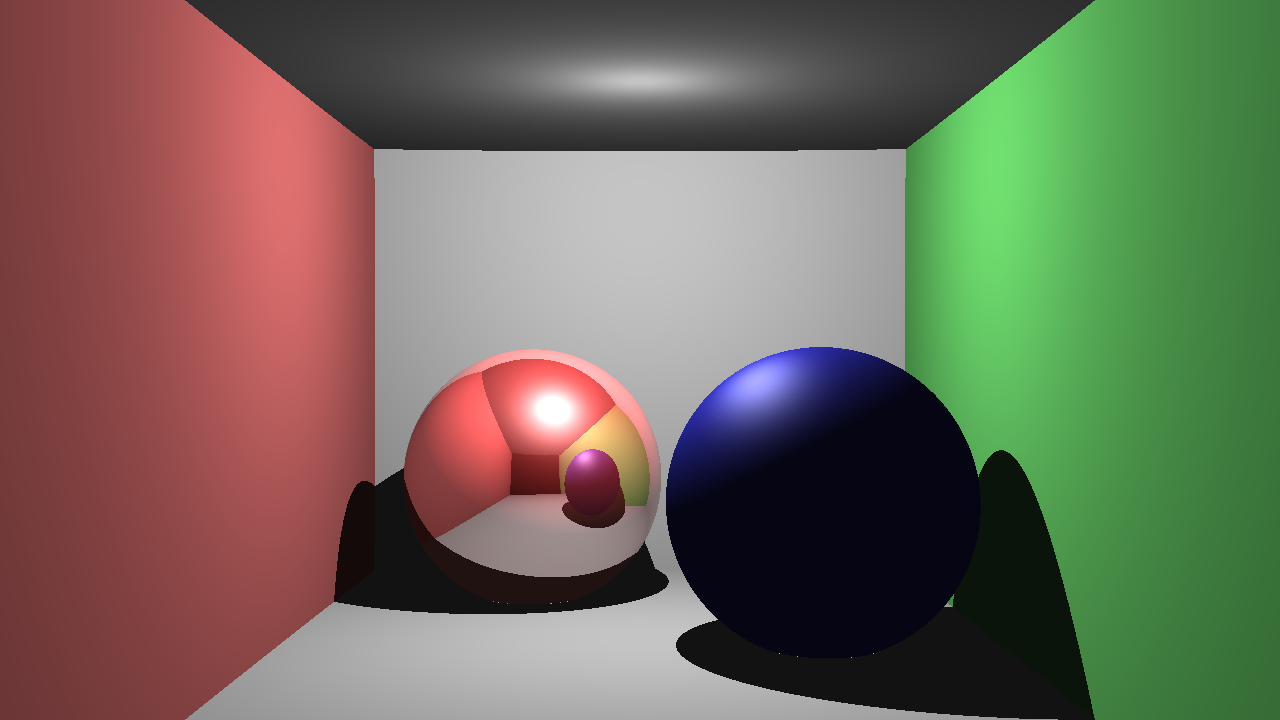
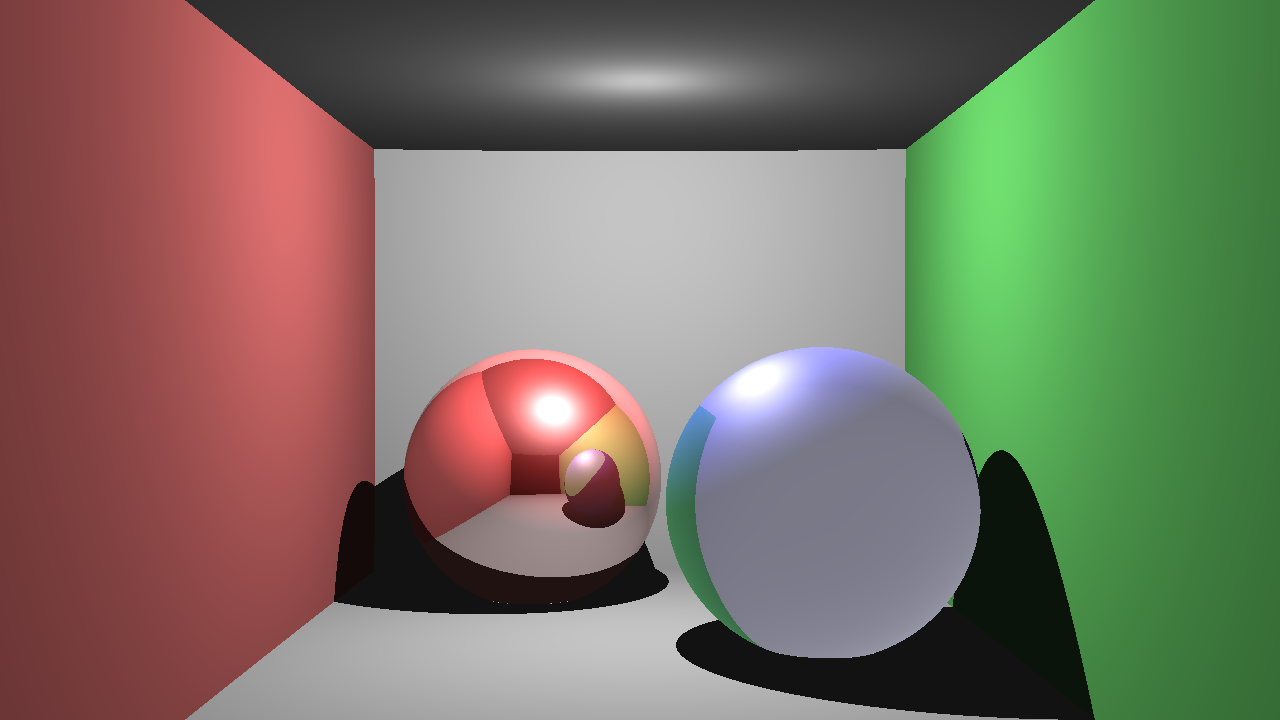
Getting closer to refractions

Changed region(s): [[0.5, 0.4583, 0.7812, 0.9167], [0.4375, 0.6111, 0.4688, 0.7028]]

diff --git a/src/Materials.cpp b/src/Materials.cpp
@@ -34,15 +34,24 @@ Color MtlBlinn::Shade(Ray const &ray, HitInfo const &hInfo, LightList const &lig
     }
 
     // Calulate reflected color
-    if (bounceCount > 0)
+    if (bounceCount > 0 && reflection.Sum() > 0.0f)
     {
         const Vec3f perfectReflectionDir{ normal * 2 * viewDir.Dot(normal) - viewDir };
         const Ray reflectionRay{ hInfo.p + perfectReflectionDir * 0.0002f, perfectReflectionDir };
         HitInfo reflectionHitInfo{};
         if (shootRay(lightsGlobalVars::rootNode, reflectionRay, reflectionHitInfo))
-        {
             finalColor += reflectionHitInfo.node->GetMaterial()->Shade(reflectionRay, reflectionHitInfo, lights, bounceCount - 1) * reflection;
-        }
+    }
+
+    // Calculate refracted color
+    if (bounceCount > 0 && refraction.Sum() > 0.0f)
+    {
+        const float refractionRatio{ 1.0f / ior };
+        const Vec3f refractionDir{ -refractionRatio * viewDir - (sqrt(1.0f - pow(refractionRatio, 2) * pow(1 - (viewDir.Dot(normal)), 2)) - refractionRatio * (viewDir.Dot(normal))) * normal };
+        const Ray refractionRay{ hInfo.p + refractionDir * 0.0002f, refractionDir };
+        HitInfo refractionHitInfo{};
+        if (shootRay(lightsGlobalVars::rootNode, refractionRay, refractionHitInfo))
+            finalColor += refractionHitInfo.node->GetMaterial()->Shade(refractionRay, refractionHitInfo, lights, bounceCount - 1) * refraction;
     }
 
     return finalColor;
